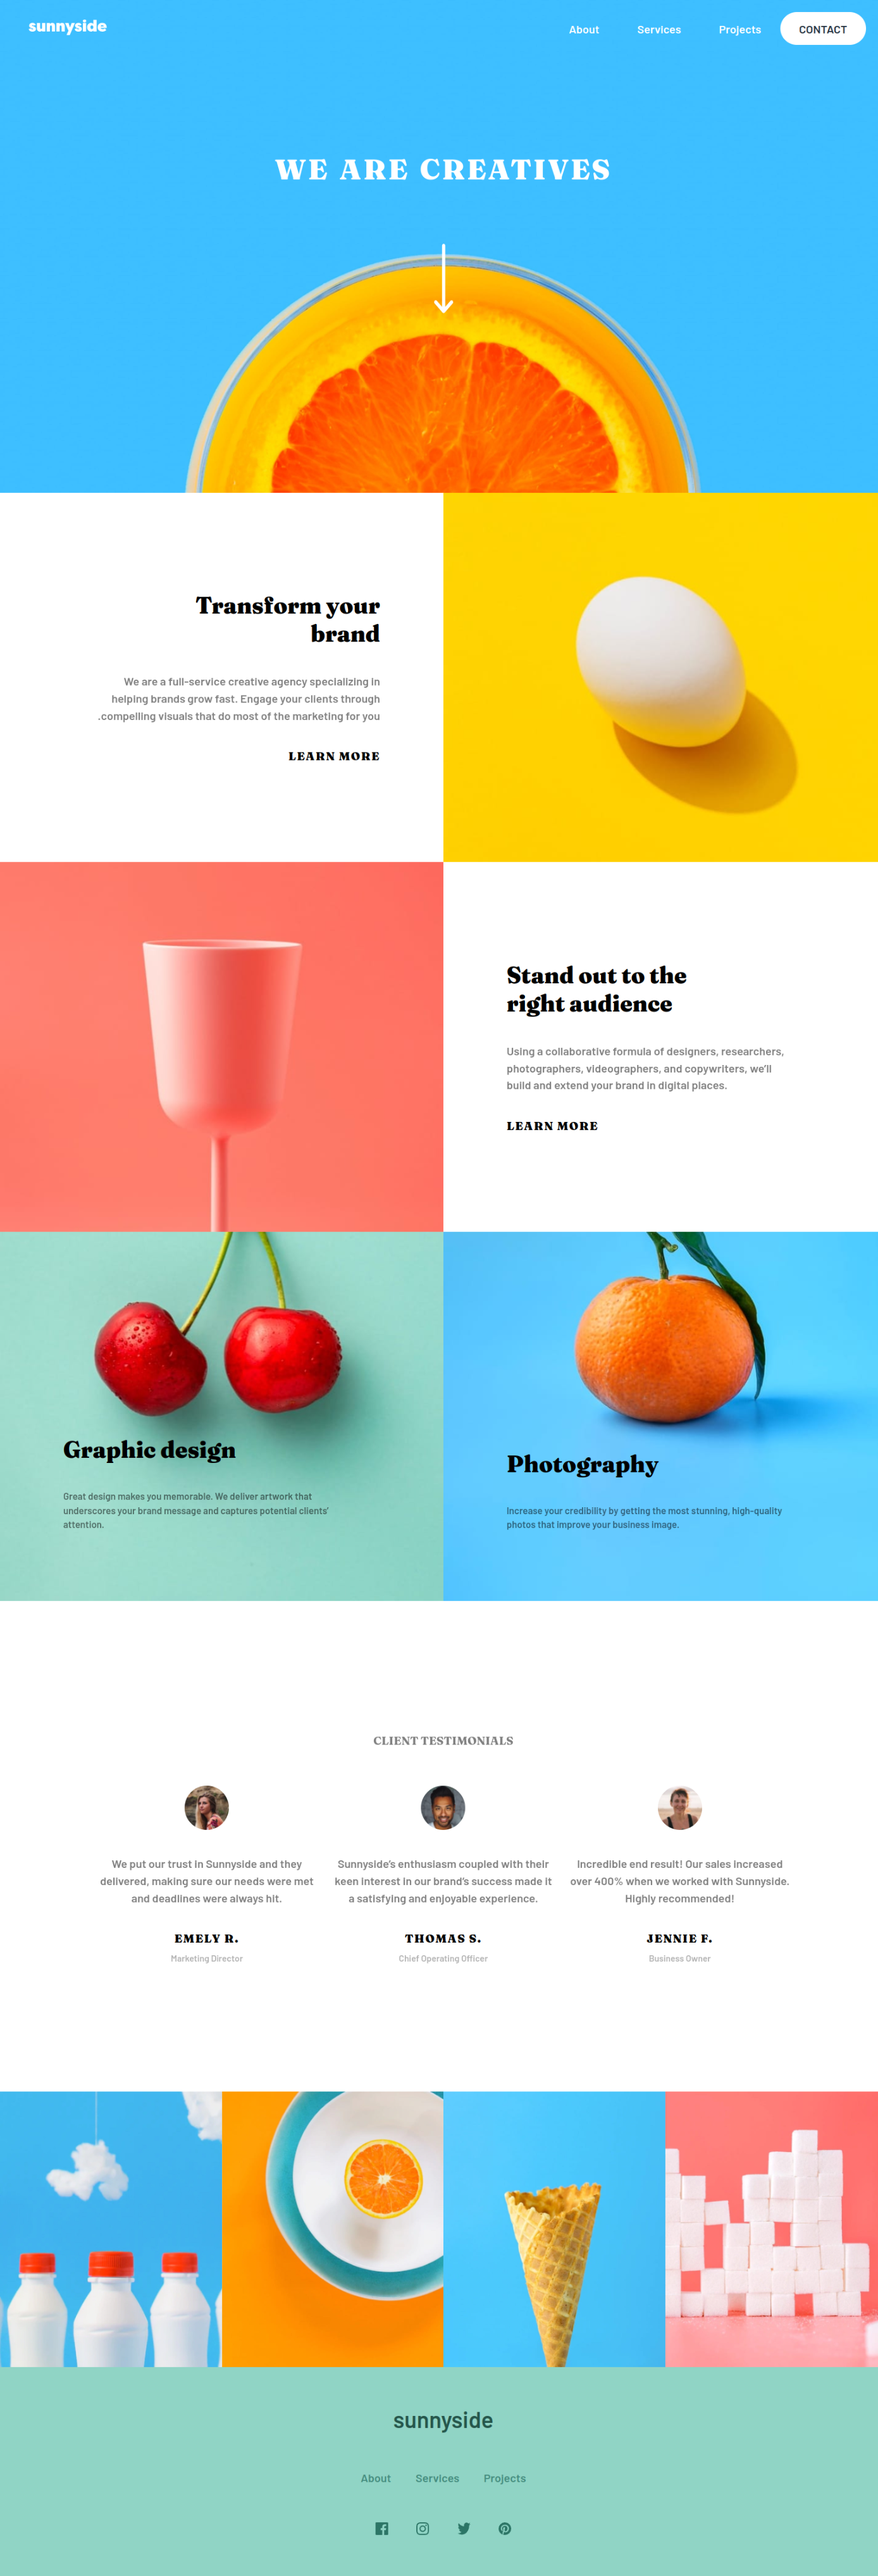
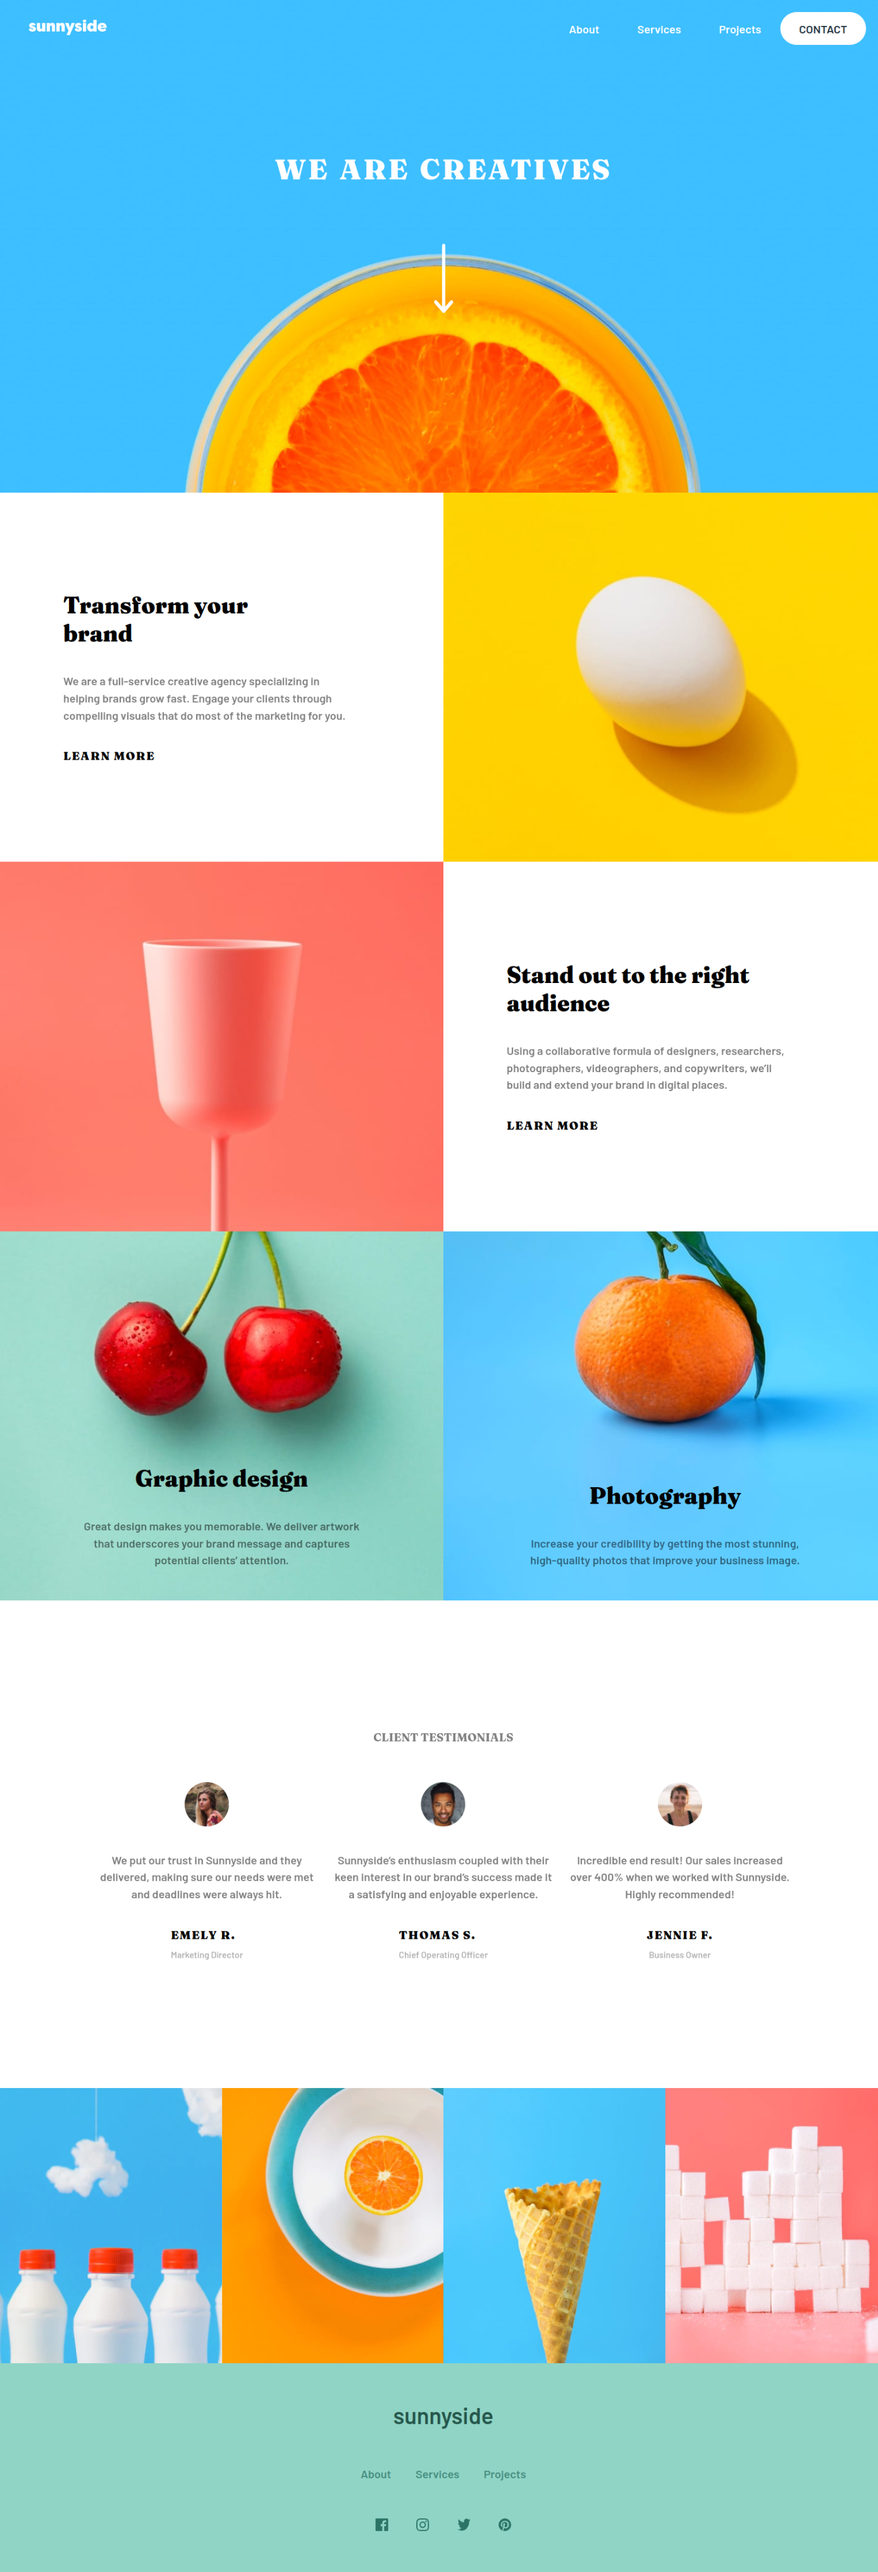
css correction

diff --git a/src/components/Main/Main.css b/src/components/Main/Main.css
@@ -87,7 +87,7 @@
 }
 .design{
     position: absolute;
-    bottom: 10px;
+    bottom:10px;
 }
 .cherry p{
     font-family: var(--Font-Family-Barlow);
@@ -178,7 +178,7 @@
     }
     .desc{
         display: flex;
-        justify-content: flex-start;
+        justify-content: center;
         padding: 100px;
         margin: 0;
         font-family: var(--Font-Family-Fraunces);
@@ -205,6 +205,8 @@
         justify-content: center;
         align-items: center;
         width: 100%;
+        position: absolute;
+        bottom: -50px;
     }
     .design p{
         font-family: var(--Font-Family-Barlow);
